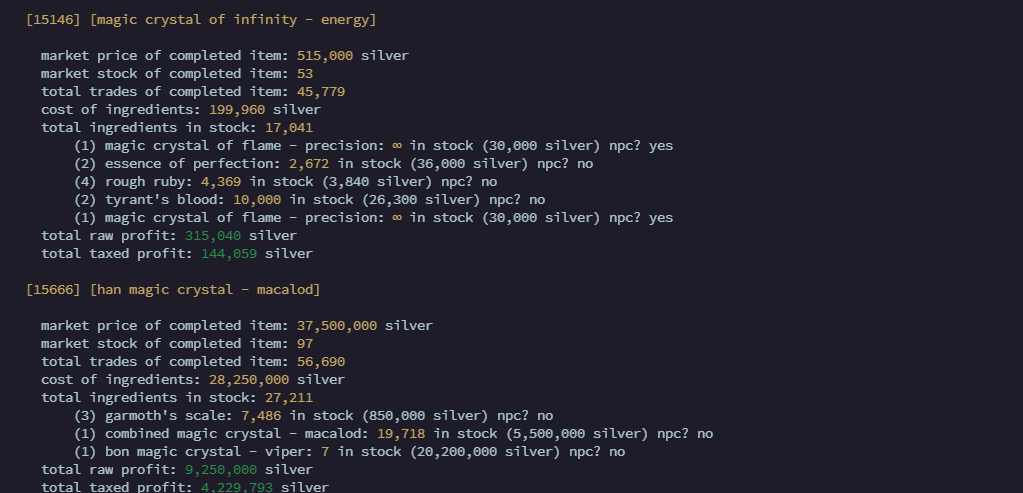
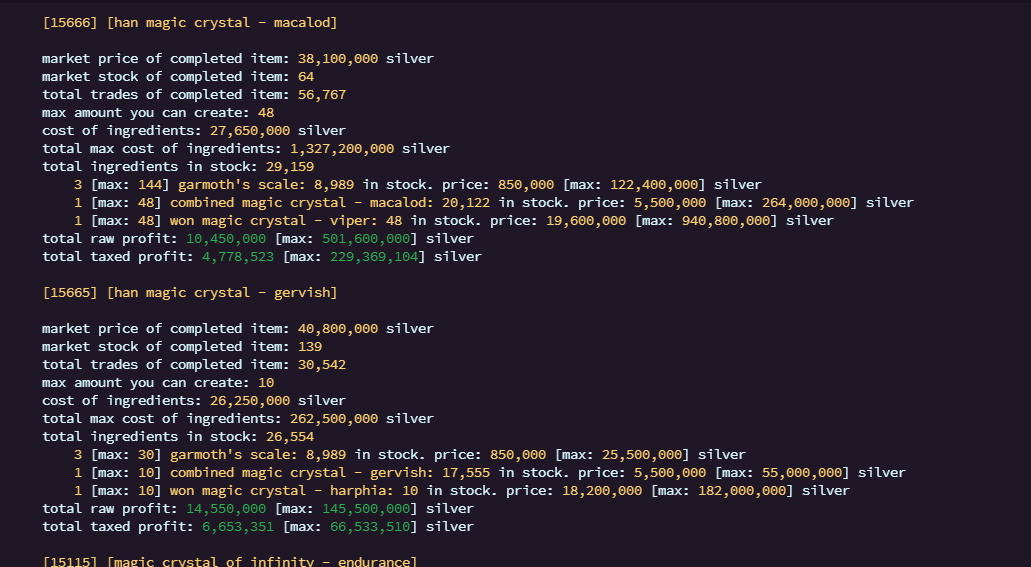
[release] release 0.1.0 - actually ready to use!

Changed region(s): [[0.0303, 0.0913, 0.8788, 1.0], [0.0303, 0.0304, 0.3636, 0.0609]]

diff --git a/readme.md b/readme.md
@@ -8,6 +8,8 @@ of course, there are usually none of these! sometimes there are a few, but they'
 
 this takes into account market tax and shows the gross potential profit as well as the taxed profit - but it currently assumes you have the value pack and that your fame is level 1 (family fame >= 1000).
 
+it will also tell you the maximum possible amount of items you can craft (by buying all the available ingredients).
+
 finally, if you really want to make profit on the market, you basically have to go out and gather super rare ingredients yourself. good  luck!
 
 ## how to use
@@ -23,17 +25,20 @@ if you have node.js installed on your computer, you can use the source code.
 
 ![the script options selection](./screenshots/example_two.png)
 
-### standalone executable
+## standalone executable
 
 work in progress.
 
 I'm trying to package this up into an executable, but it's making me regret even writing this in javascript. HELP. I have tried `pkg`, `nexe`, `babel` + `ncc` + `pkg`, `warp`, `babel` + `nexe`, and a few other things I can't even remember. I have no clue what to do.
 
-todo:
+## todo:
 
--   [ ] cache ingredient prices
+-   [x] cache ingredient prices
 -   [x] add option to search for all possible alchemy consumables
 -   [x] account for market tax
 -   [x] warn about low daily volume for ingredients and consumables
 -   [ ] add a `--silent` or `--minimal` option to just show bare output
 -   [ ] **critical:** figure out how to get recipe information without scraping bdocodex. this would speed up the script by a huge amount.
+-   [x] make it work
+-   [ ] make the code prettier
+-   [ ] make it fast
